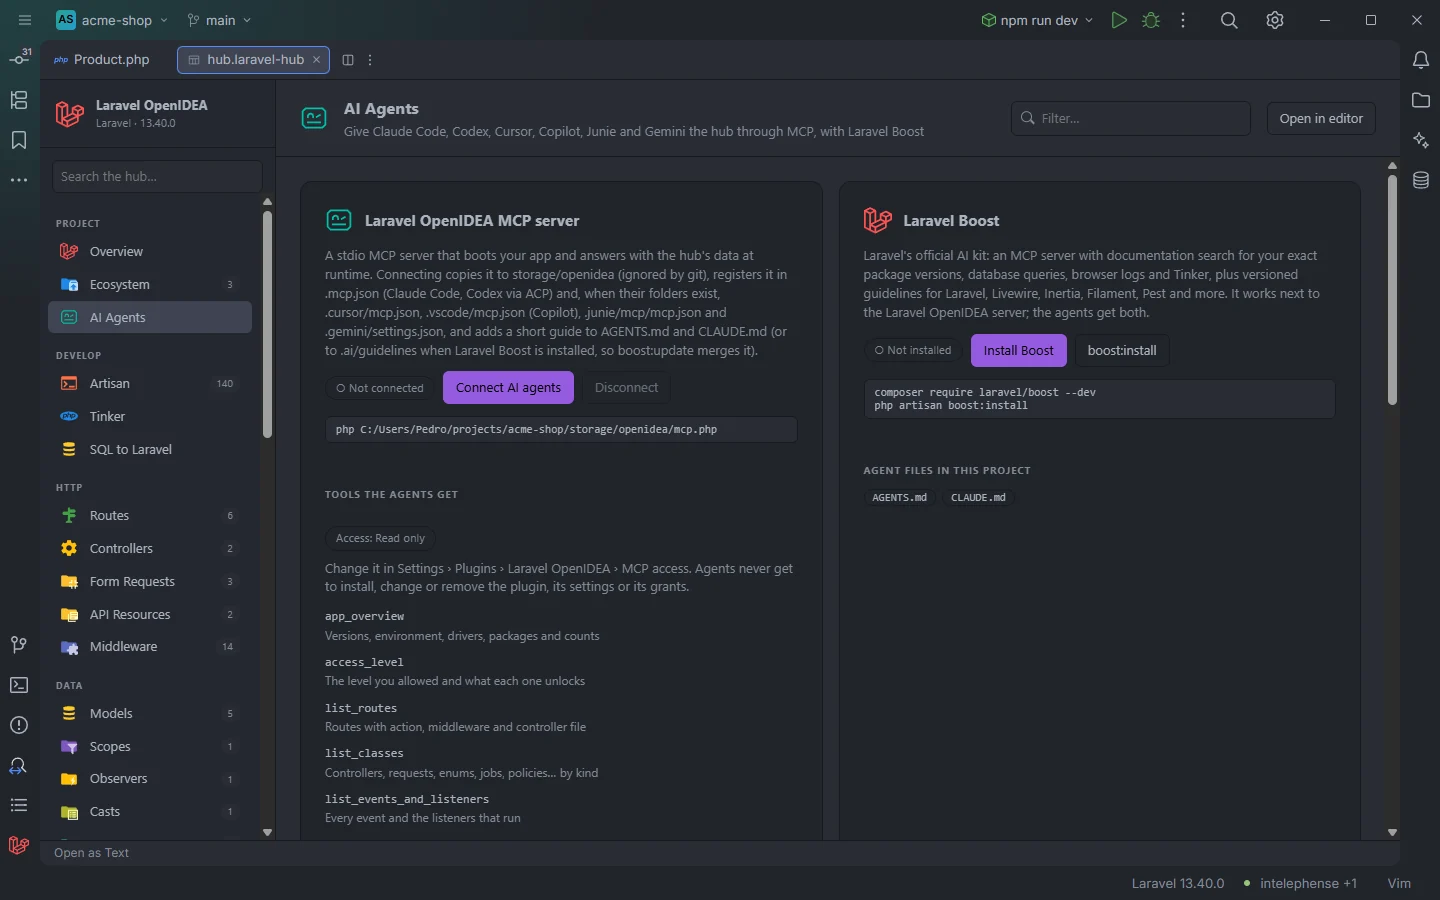
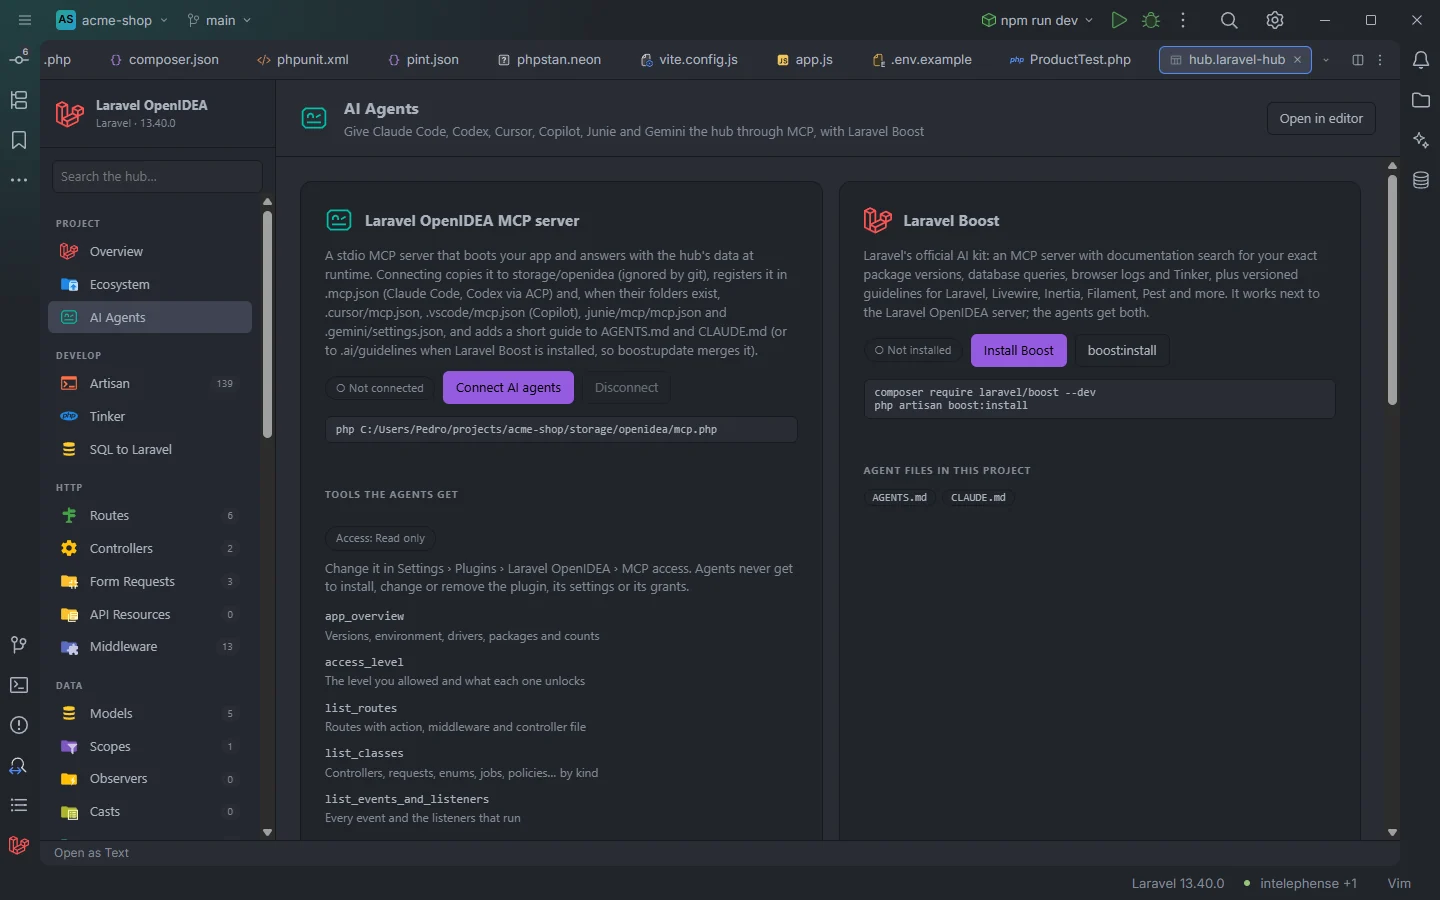
Polish the hub's counts, filter box and Artisan list
Counts of one read "1 item", "1 key", "1 record", "1 query" and
"1 entry". Tinker and AI Agents hide the header's filter box, which did
nothing there. The Artisan list is read again when a command class or
the installed packages change, the section asks for it each time it
opens, and a Refresh button reads it by hand. Array arguments, which
are split on spaces, say "space separated"; array options keep
"comma separated".

diff --git a/web/hub.html b/web/hub.html
@@ -532,7 +532,7 @@ function showModel(name) {
 function renderModel(msg) {
   const parts = [];
   const total = msg.groups.reduce((n, g) => n + g.rows.length, 0);
-  $("section-desc").textContent = (msg.table ? "Table " + msg.table + " · " : "") + total + " places define or use " + msg.name;
+  $("section-desc").textContent = (msg.table ? "Table " + msg.table + " · " : "") + counted(total, "place defines or uses ", "places define or use ") + msg.name;
   const jump = el("div", { className: "search-sections" });
   for (const g of msg.groups) {
     const b = el("button", { className: "btn ghost", textContent: g.title + " · " + g.rows.length });
@@ -563,6 +563,8 @@ $("hub-search").addEventListener("input", () => {
   hubSearchTimer = setTimeout(() => showSearch(query), 350);
 });
 
+function counted(n, one, many) { return n + " " + (n === 1 ? one : many); }
+
 function go(id) {
   state.section = id;
   $("open-tab").hidden = false;
@@ -571,13 +573,13 @@ function go(id) {
   $("section-title").textContent = s.title;
   $("section-desc").textContent = s.desc;
   $("search").value = "";
-  $("search-box").hidden = id === "overview";
+  $("search-box").hidden = ["overview", "tinker", "ai"].includes(id);
   $("toolbar").replaceChildren();
   $("filters").replaceChildren();
   $("count").hidden = true;
   renderNav();
   if (id === "overview") { renderOverview(); send({ type: "overview" }); }
-  else if (id === "artisan") { renderArtisan(); if (!state.commands.length) send({ type: "init" }); }
+  else if (id === "artisan") { renderArtisan(); send({ type: "init" }); }
   else if (id === "logs") { renderLogs(); send({ type: "files" }); }
   else if (id === "tinker") { renderTinker(); }
   else if (id === "sql") { $("search-box").hidden = true; renderSql(); }
@@ -813,7 +815,7 @@ function renderSection(id) {
   const paged = rows.length > PAGE_SIZES[0] ? [pager(id, rows.length, () => renderSection(id))] : [];
   content.replaceChildren(...(rows.length ? [table, ...paged] : [emptyState(q ? "No match for “" + q + "”." : "No item matches the filters.")]));
   $("count").hidden = false;
-  $("count").textContent = rows.length === data.rows.length ? data.rows.length + " items" : rows.length + " of " + data.rows.length + " items";
+  $("count").textContent = rows.length === data.rows.length ? counted(data.rows.length, "item", "items") : rows.length + " of " + counted(data.rows.length, "item", "items");
 }
 
 $("search").addEventListener("input", () => {
@@ -847,6 +849,9 @@ function argv() {
 }
 
 function renderArtisan() {
+  const refresh = el("button", { className: "btn ghost", textContent: "Refresh", title: "Read the commands of the app and its packages again" });
+  refresh.addEventListener("click", () => { state.commands = []; renderCommandList(); send({ type: "refresh" }); });
+  $("toolbar").replaceChildren(refresh);
   const wrap = el("div", { className: "artisan" }, el("div", { className: "commands", id: "commands" }), el("div", { className: "form", id: "form" }));
   $("content").replaceChildren(wrap);
   renderCommandList();
@@ -882,7 +887,7 @@ function renderCommandList() {
 
 function field(key, label, hint, kind, required) {
   const id = "f-" + key.replace(/[^\w-]/g, "_");
-  const input = kind === "flag" ? el("input", { type: "checkbox", id }) : el("input", { type: "text", id, placeholder: kind === "array" ? "comma separated" : "" });
+  const input = kind === "flag" ? el("input", { type: "checkbox", id }) : el("input", { type: "text", id, placeholder: kind === "array" ? "space separated" : kind === "list" ? "comma separated" : "" });
   if (kind === "flag") input.checked = state.values[key] === true; else input.value = state.values[key] ?? "";
   input.addEventListener(kind === "flag" ? "change" : "input", () => { state.values[key] = kind === "flag" ? input.checked : input.value; updateRunbar(); });
   input.addEventListener("keydown", (e) => { if (e.key === "Enter") runCurrent(); });
@@ -909,7 +914,7 @@ function renderForm() {
   }
   if (c.options.length) {
     const fs = el("fieldset", {}, el("legend", { textContent: "Options" }));
-    for (const o of c.options) fs.append(field("opt:" + o.name, (o.shortcut ? "-" + o.shortcut + ", " : "") + "--" + o.name + (o.value ? "=" : ""), [o.description, o.default ? "default: " + o.default : ""].filter(Boolean).join(" · "), o.value ? (o.array ? "array" : "text") : "flag"));
+    for (const o of c.options) fs.append(field("opt:" + o.name, (o.shortcut ? "-" + o.shortcut + ", " : "") + "--" + o.name + (o.value ? "=" : ""), [o.description, o.default ? "default: " + o.default : ""].filter(Boolean).join(" · "), o.value ? (o.array ? "list" : "text") : "flag"));
     body.append(fs);
   }
   const gs = el("fieldset", {}, el("legend", { textContent: "Global options" }));
@@ -1040,7 +1045,7 @@ function renderEntries() {
   }
   $("count").hidden = false;
   if (visible.length > PAGE_SIZES[0]) box.append(pager("logs", visible.length, renderEntries, () => stopFollow(L, "logs-follow")));
-  $("count").textContent = visible.length + " of " + (L.entries.length - L.hiddenBefore) + " entries · " + (L.path || "");
+  $("count").textContent = visible.length + " of " + counted(L.entries.length - L.hiddenBefore, "entry", "entries") + " · " + (L.path || "");
   if (L.follow) $("content").scrollTop = $("content").scrollHeight;
 }
 
@@ -2569,7 +2574,7 @@ function renderAuditList() {
       scope = r.scope;
       const h = heads.get(scope);
       const n = A.records.filter((x) => x.scope === scope && x.type === "query").length;
-      list.append(el("div", { className: "scope-head" }, el("b", { textContent: !h ? "pid " + r.pid : h.type === "boot" ? (/Standard input|Command line/.test(h.argv || "") ? "Tinker run" : h.context === "console" ? "artisan " + (h.argv || "").replace(/^artisan\s*/, "") : "HTTP") : auditSummary(h)[0] }), el("span", { textContent: h && h.type === "request" ? h.status + " · " + Math.round(h.ms) + " ms" : h && h.ms != null ? Math.round(h.ms) + " ms" : "" }), el("span", { textContent: n ? n + " queries" : "" })));
+      list.append(el("div", { className: "scope-head" }, el("b", { textContent: !h ? "pid " + r.pid : h.type === "boot" ? (/Standard input|Command line/.test(h.argv || "") ? "Tinker run" : h.context === "console" ? "artisan " + (h.argv || "").replace(/^artisan\s*/, "") : "HTTP") : auditSummary(h)[0] }), el("span", { textContent: h && h.type === "request" ? h.status + " · " + Math.round(h.ms) + " ms" : h && h.ms != null ? Math.round(h.ms) + " ms" : "" }), el("span", { textContent: n ? counted(n, "query", "queries") : "" })));
     }
     const [main, sub] = auditSummary(r);
     const time = new Date(r.t * 1000);
@@ -2586,7 +2591,7 @@ function renderAuditList() {
   }
   $("count").hidden = false;
   if (visible.length > PAGE_SIZES[0]) list.append(pager("audit", visible.length, renderAuditList, () => stopFollow(A, "audit-follow")));
-  $("count").textContent = visible.length + " of " + A.records.length + " records · " + heads.size + " requests, jobs and commands";
+  $("count").textContent = visible.length + " of " + counted(A.records.length, "record", "records") + " · " + heads.size + " requests, jobs and commands";
   if (A.follow) $("content").scrollTop = $("content").scrollHeight;
 }
 
@@ -2703,7 +2708,7 @@ function renderCache() {
   table.append(body);
   content.replaceChildren(...notes, table, pager("cache", C.total, () => requestCache("list")));
   $("count").hidden = false;
-  $("count").textContent = C.total + " keys · " + C.store + " (" + C.driver + ")";
+  $("count").textContent = counted(C.total, "key", "keys") + " · " + C.store + " (" + C.driver + ")";
 }
 
 

diff --git a/src/lib.rs b/src/lib.rs
@@ -543,6 +543,7 @@ impl Laravel {
             self.show_status(&project, &root);
         }
         self.reindex_usages(&project, &root, path);
+        self.forget_commands(&root, path);
         self.cache.invalidate(&root, path);
         if path.replace('\\', "/").contains("/tests/") {
             self.pest.remove(&root);
@@ -556,6 +557,19 @@ impl Laravel {
                 self.originals.remove(&renames::path_key(path));
                 false
             }
+        }
+    }
+
+    fn forget_commands(&mut self, root: &str, path: &str) {
+        let rel_path = project::rel(root, path).replace('\\', "/");
+        let packages = matches!(
+            rel_path.as_str(),
+            "vendor/composer/autoload_classmap.php"
+                | "vendor/composer/installed.json"
+                | "composer.lock"
+        );
+        if packages || rel_path.starts_with("app/") && rel_path.ends_with(".php") {
+            self.commands.remove(root);
         }
     }
 
@@ -2751,6 +2765,7 @@ impl openidea_plugin::Plugin for Laravel {
                         self.facts_cache.clear();
                         self.live.remove(path);
                         self.reindex_usages(&project, &root, path);
+                        self.forget_commands(&root, path);
                         self.cache.invalidate(&root, path);
                         if let Ok(text) = project.read_file(path) {
                             self.remember_original(&root, path, &text, true);
@@ -3078,6 +3093,45 @@ mod tests {
                 .title
                 .contains("'admin.users.index' to 'admin.users.list'")
         );
+    }
+
+    #[test]
+    fn the_artisan_list_picks_up_a_new_command() {
+        use openidea_plugin::views::{ViewEvent, Views};
+        let host = setup();
+        let mut plugin = Laravel::default();
+        let names = |plugin: &mut Laravel| {
+            plugin
+                .handle(
+                    "hub",
+                    ViewEvent::Message(r#"{"type":"init","instance":"t"}"#.into()),
+                    &host.invocation(),
+                )
+                .unwrap();
+            let (_, message) = host.view_messages().pop().unwrap();
+            let message: serde_json::Value = serde_json::from_str(&message).unwrap();
+            message["commands"]
+                .as_array()
+                .unwrap()
+                .iter()
+                .filter_map(|c| c["name"].as_str().map(str::to_owned))
+                .collect::<Vec<_>>()
+        };
+        assert!(!names(&mut plugin).contains(&"shop:sync".to_owned()));
+        host.add_file(
+            "app/Console/Commands/SyncShop.php",
+            "<?php\nnamespace App\\Console\\Commands;\n\nuse Illuminate\\Console\\Command;\n\nclass SyncShop extends Command\n{\n    protected $signature = 'shop:sync';\n}\n",
+        );
+        assert!(!names(&mut plugin).contains(&"shop:sync".to_owned()));
+        plugin.handle_events(
+            &[Event::FilesChanged(openidea_plugin::FilesChanged {
+                created: vec!["/project/app/Console/Commands/SyncShop.php".into()],
+                modified: Vec::new(),
+                removed: Vec::new(),
+            })],
+            &host.invocation(),
+        );
+        assert!(names(&mut plugin).contains(&"shop:sync".to_owned()));
     }
 
     #[test]

diff --git a/wiki/Hub-Artisan.md b/wiki/Hub-Artisan.md
@@ -2,7 +2,7 @@
 
 Every Artisan command of the app and its packages in one list, each turned into a form with its arguments and options. Fill it in, check the command line at the bottom and run it in an IDE terminal or see its output right in the hub.
 
-<p align="center"><img src="images/hub-artisan.webp" alt="The Artisan section: the command list grouped by namespace with a Recent group on top, and the empty form area" width="100%"></p>
+<p align="center"><img src="images/hub-artisan.webp" alt="The Artisan section: the Refresh button, the command list grouped by namespace with a Recent group on top, and the empty form area" width="100%"></p>
 <p align="center"><sub>The command list, with the last command run under Recent</sub></p>
 
 ## How to use it
@@ -34,7 +34,7 @@ The badge next to **Artisan** in the sidebar and the Overview card show how many
 - The description and its source after a `·`: the Composer package (`laravel/framework`), `app` or `routes/console.php`. `No description` when there is none.
 - **Arguments**: one text field per argument, labelled with its name. A required argument has a red `*`; an array argument ends in `…`. The hint under the field is the argument's description and `default: …` when it has one.
 - **Options**: a checkbox for a flag, a text field for an option that takes a value (labelled `--name=`). The shortcut comes first when there is one (`-m, --migration`).
-- Array arguments and array options show `comma separated` as placeholder.
+- Array arguments show `space separated` as placeholder, array options `comma separated`, matching how each is split (below).
 - **Global options**: `--env=` (text), `--no-interaction`, `--verbose`, `--quiet` and `--ansi` (checkboxes), for every command.
 
 ### The run bar
@@ -76,11 +76,11 @@ Each command is read the way Laravel declares it:
 
 Signature details: `{user}` is required, `{user?}` and `{user=default}` optional, `{ids*}` an array argument; `{--force}` is a flag, `{--queue=}` takes a value, `{--delay=5}` has a default, `{--tag=*}` is an array; `{--Q|queue=}` declares the shortcut `Q`; ` : ` separates the description. With `getArguments()`, `REQUIRED` and `IS_ARRAY` set the argument's mode; with `getOptions()`, `VALUE_REQUIRED` or `VALUE_OPTIONAL` make an option take a value.
 
-The list is read once and kept for the rest of the session; a command added later appears after the window is reloaded.
+The list is kept between visits, and read again from the files when a PHP file under `app/`, `composer.lock`, `vendor/composer/installed.json` or `vendor/composer/autoload_classmap.php` changes (a new command class, `composer require`). The section asks the plugin for the list each time it opens, so a command added since then appears there. **Refresh**, in the toolbar above the list, reads every command again.
 
 ### How values become the command
 
-- Arguments come first, in their declared order; an empty argument is left out. An array argument is split on spaces (not commas, whatever the placeholder says) into several arguments.
+- Arguments come first, in their declared order; an empty argument is left out. An array argument is split on spaces into several arguments.
 - A flag adds `--name` when checked.
 - A value option adds `--name=value`; an array option is split on commas and repeated, `--tag=a --tag=b`.
 - Global options come last.

diff --git a/wiki/Hub.md b/wiki/Hub.md
@@ -58,7 +58,7 @@ The badge next to a section is its size. Routes, Controllers, Form Requests, API
 
 ### The header
 
-Every section has a header with its icon, title and a one-line description, a **Filter…** box and the **Open in editor** button. The filter box is hidden on Overview, SQL to Laravel, the search results and a model's detail page; **Open in editor** is hidden on the search results and on a model's detail page.
+Every section has a header with its icon, title and a one-line description, a **Filter…** box and the **Open in editor** button. The filter box is hidden on Overview, Tinker, SQL to Laravel, AI Agents, the search results and a model's detail page; **Open in editor** is hidden on the search results and on a model's detail page.
 
 ### Tables
 
@@ -68,7 +68,7 @@ Most sections are a table. Under the header there may be:
 2. The **Filter** bar with one drop-down per facet.
 3. The table, with sortable column headers.
 4. A pager when there are more than 50 rows.
-5. A count line at the bottom: `12 items`, or `3 of 12 items` while a filter is active.
+5. A count line at the bottom: `12 items` (`1 item` for a single row), or `3 of 12 items` while a filter is active.
 
 Columns that hold code (URIs, keys, files, actions, migrations…) use the editor's monospace font, and long lists (fields, relations, hooks, cases, listeners…) wrap instead of being cut. In Routes, the method is a coloured badge: green for GET and HEAD, blue for POST, orange for PUT and PATCH, red for DELETE and purple for anything else.
 
@@ -162,7 +162,7 @@ There is no global refresh button, because there is nothing to refresh by hand:
 - Each time you open a section, the plugin rebuilds its table from its indexes. The indexes follow every save in the editor and every change on disk (a `git checkout`, a generator run in a terminal), so the next visit shows the new state. When more than 200 files change at once, everything is forgotten and read again.
 - **Laravel: Refresh Index**, also behind the Laravel version in the status bar (see [Status bar](Status-Bar.md)), clears every index and reads the project again.
 - Sections that read live data have their own controls: **Refresh** in [Cache](Hub-Cache.md), **Live** and **Follow** in [Logs](Hub-Logs.md), the recorder in [Live Audit](Hub-Live-Audit.md).
-- The list of Artisan commands is read once and kept for the session.
+- The list of Artisan commands is read again when a PHP file under `app/`, `composer.lock`, `vendor/composer/installed.json` or the Composer class map changes, and the section asks for it each time it opens. Its **Refresh** button reads it again by hand.
 
 Some data survives the session in the plugin's storage: the Tinker tabs and their code, the last 20 Artisan commands, and the text and mode of SQL to Laravel.
 

diff --git a/CHANGELOG.md b/CHANGELOG.md
@@ -9,6 +9,7 @@ All notable changes to Laravel OpenIDEA. The format follows [Keep a Changelog](h
 - The N+1 quick fix on a loop over `Post::paginate()`, `Post::cursor()` or another collecting call made right after the model writes `Post::with('…')->paginate()`. It used to insert `->with('…')` before the `::`.
 - The unknown validation rule inspection checks every rule of a pipe-separated string, and rules with parameters: `'strng|required'` and `'requird|max:255'` are reported. It used to look only at the last rule, and only when it had no parameters. A `|` inside a `regex:` pattern doesn't start a new rule.
 - Live Audit masks a value when a whole word of its key is a secret or personal data word (`password_confirmation`, `accessToken`, `user_email`, `date_of_birth`), instead of when the key merely contains one, so `footprint`, `compass`, `accepted_terms` and `org` are no longer masked. Keys are split at separators, camelCase humps and digits. `passport` is now personal data, shown with `OPENIDEA_AUDIT_SHOW_PII=true`. An installed recorder keeps the old rules until it is turned off and on again in the hub.
+- Hub: the Artisan command list is read again when a command class under `app/` or the installed packages change, the section asks for it each time it opens, and a **Refresh** button reads it by hand; before, it was read once per session. Array arguments say `space separated`, as they are split, and array options `comma separated`. Counts read `1 item`, `1 key`, `1 record`, `1 query` and `1 entry` instead of `1 items`. Tinker and AI Agents no longer show the header's filter box, which did nothing there.
 
 ## 0.15.0
 

diff --git a/wiki/Hub-Tinker.md b/wiki/Hub-Tinker.md
@@ -20,8 +20,8 @@ collect([1, 2, 3])->map(fn ($n) => $n * 10);
 dump(config('app.name'));
 ```
 
-<p align="center"><img src="images/hub-tinker.webp" alt="An empty Tinker tab with the toolbar: runner badge, Insert snippet, Clear output, Run selection and Run" width="100%"></p>
-<p align="center"><sub>A new tab before running anything</sub></p>
+<p align="center"><img src="images/hub-tinker.webp" alt="A Tinker tab with five statements and the toolbar: runner badge, Insert snippet, Clear output, Run selection and Run" width="100%"></p>
+<p align="center"><sub>A tab before running anything</sub></p>
 
 ## What you see
 
@@ -85,7 +85,7 @@ The run ends with `Done · Laravel 13.40.0 · PHP 8.5.0 · local · 40 MB · 1.2
 - Queries are captured with `DB::listen`; object bindings show as their class name.
 - Error and dump links map container paths (`/var/www/html/app/…`) back to the project file.
 - **SQL to Laravel**'s run button opens a new tab named `SQL <n>` with the generated code and runs it right away (see [SQL to Laravel](Hub-SQL-to-Laravel.md)).
-- This is real code against your real database: writes are written. The **Filter…** box in the header does nothing on this page.
+- This is real code against your real database: writes are written. The header has no **Filter…** box on this page.
 
 ## Settings and permissions
 

diff --git a/wiki/Hub-AI-Agents.md b/wiki/Hub-AI-Agents.md
@@ -80,7 +80,7 @@ A three-step recipe: turn the recorder on in [Live Audit](Hub-Live-Audit.md), re
 - The first visit asks for the state, which runs the plugin's setup script (`install.php agents-status`) with the project's runner. It also brings the server files in `storage/openidea` up to date if they are already there.
 - **Connect AI agents** runs the same script with `agents` and passes it the server, the access level and the guide; **Disconnect** runs it with `agents-off`. What exactly each one writes and removes is listed in [AI agents and MCP](AI-Agents.md#what-connecting-writes).
 - **Install Boost** goes through Composer in a terminal: `php -r "passthru('composer …')"` with the php runner (so `composer` must be on the PATH), or `docker compose run --rm --no-deps --entrypoint composer <service> …` / `docker compose exec <service> composer …` with a Compose runner. The hub only allows the Composer commands `require`, `update`, `install`, `remove`, `dump-autoload`, `show` and `outdated`.
-- The **Filter…** box in the header has no effect on this page.
+- The header has no **Filter…** box on this page.
 - The tool list is part of the page; it reflects the server shipped with this plugin version.
 
 ## Settings and permissions
